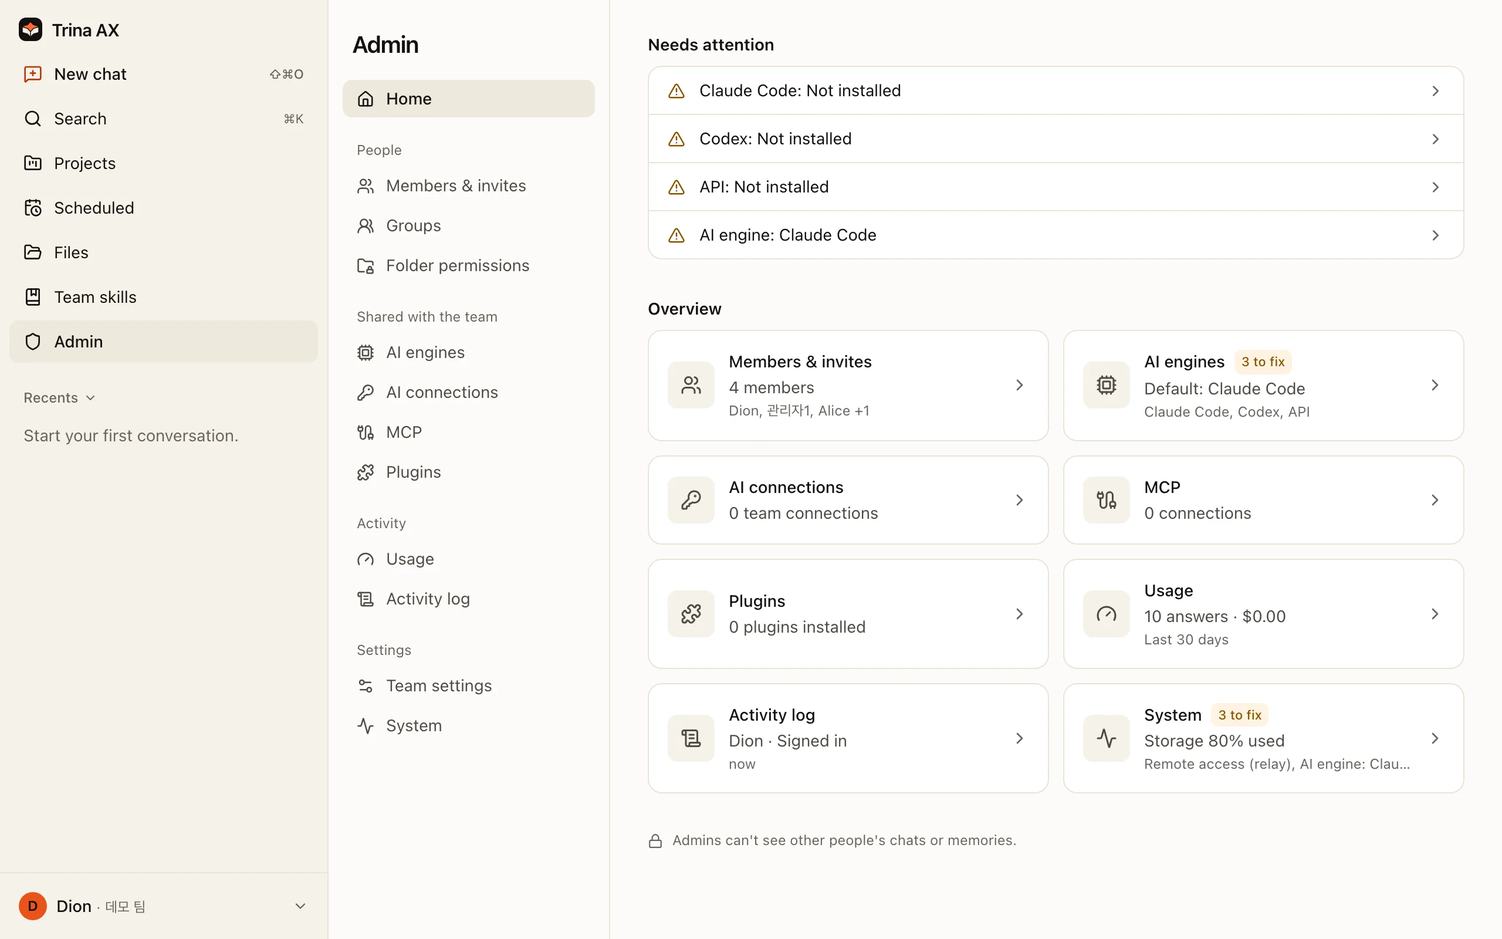
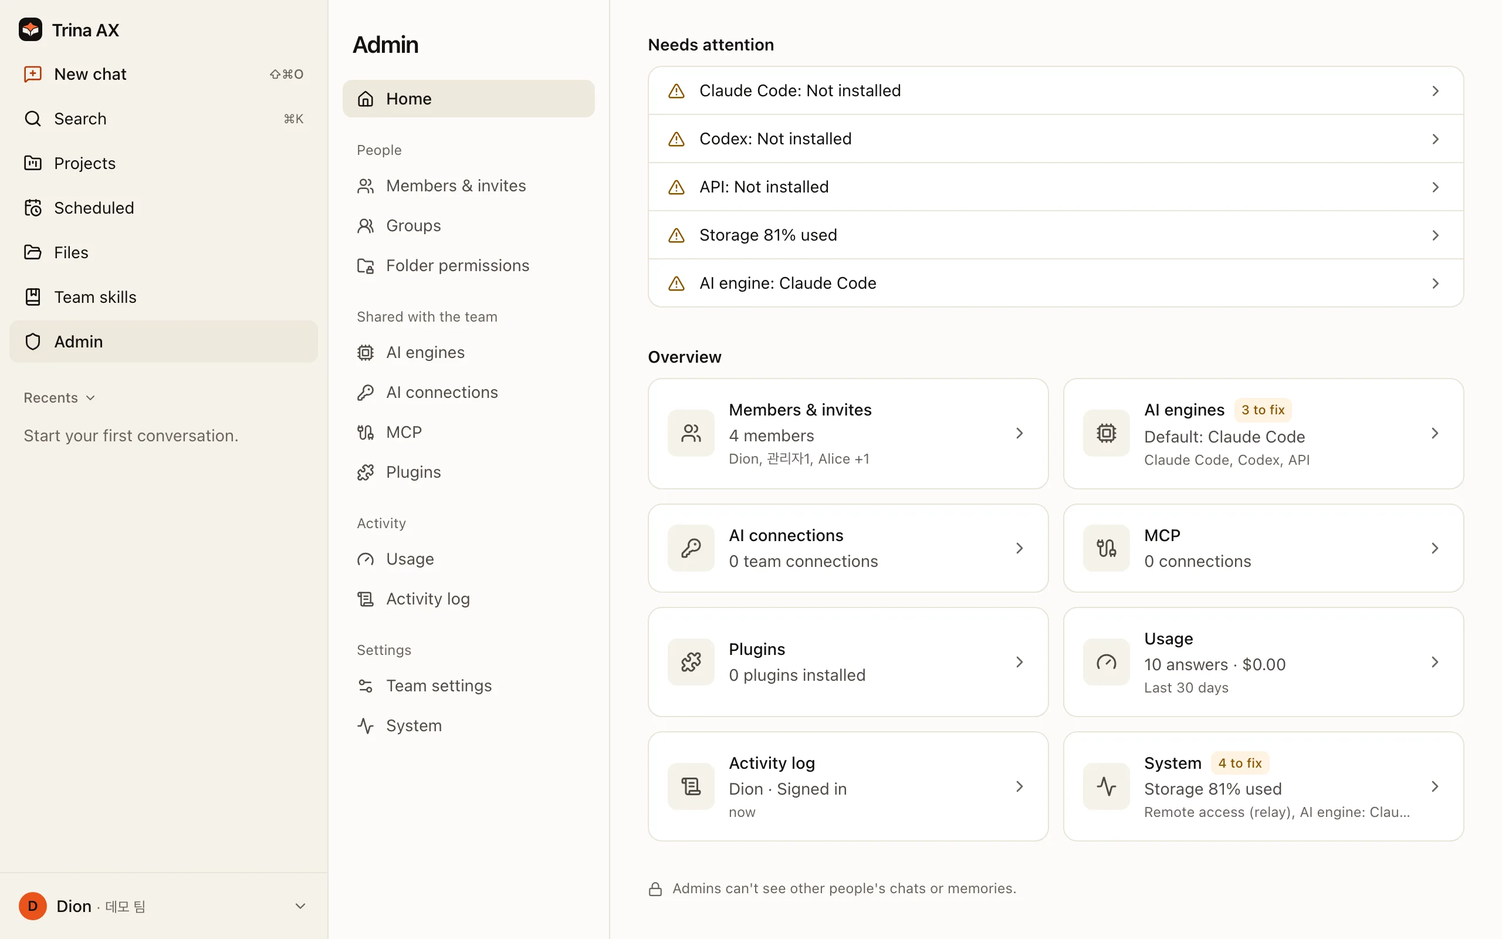
Docs: AI engines tabs with new screenshots, and the website's navbar on ax.trina.app/docs
* Docs: the AI engines tabs (Providers, Team provider settings) with new screenshots

The docs site now shows Admin › AI engines as it is on main: the Providers list, an engine opened, and Team
provider settings, with screenshots retaken from a server running main (made-up demo team). Admin Home and the
activity log shots are retaken too. The notes about older screens now name the version (before 0.4.0) instead of
"older versions", and usage limits point to AI engines › Team provider settings.

* Docs build: --site-nav puts a website's own navbar on top of the docs pages

ax.trina.app/docs should show the website's navbar, not a separate docs header. The website now hands its rendered
header and navbar CSS to the docs build as SiteNav JSON (--site-nav): the docs search goes where the bar marks it,
the section tabs stay below, phones get a docs row with the docs menu and the search, and the light or dark choice
uses the website's storage key. Without the option, the docs keep their own header (the default and the preview).
The bar is checked: no second <header>, no scripts, event handlers or inline styles.

* Docs build: no extra line between the website navbar and the section tabs

---------

diff --git a/scripts/docs/build.ts b/scripts/docs/build.ts
@@ -1,5 +1,9 @@
 // Builds the documentation site in docs/site/ into a static folder (default dist/docs-site/). `bun run docs:build`.
-//   bun scripts/docs/build.ts [--out DIR] [--base /docs] [--site-url https://docs.example.com]
+//   bun scripts/docs/build.ts [--out DIR] [--base /docs] [--site-url https://docs.example.com] [--site-nav nav.json]
+// --site-nav puts a website's own navigation bar on top of every page instead of the docs' header bar (ax.trina.app
+// passes its header, rendered by its own build). The file is SiteNav JSON: `html` is the bar's markup with the
+// `<!--docs-tools-->` marker where the docs search goes, `css` and `assets` are files next to the JSON that are copied
+// to assets/site-nav/, and `themeKey` is the localStorage key the website keeps the light or dark choice under.
 // The public copy is ax.trina.app/docs: --base /docs --site-url https://ax.trina.app (the website repository's
 // scripts/sync-docs.mjs runs that). Pages carry no inline script or style attribute, so they work under that site's
 // Content-Security-Policy (script-src 'self'; style-src 'self'; img-src 'self').
@@ -33,14 +37,15 @@ const strip = (html: string) => unesc(html.replace(/<[^>]+>/g, ' ')).replace(/\s
 
 // ---------------- options ----------------
 function options(argv: string[]) {
-  const o = { out: path.join(ROOT, 'dist/docs-site'), base: '', siteUrl: '' }
+  const o = { out: path.join(ROOT, 'dist/docs-site'), base: '', siteUrl: '', siteNav: '' }
   for (let i = 0; i < argv.length; i += 2) {
     const [k, v] = [argv[i], argv[i + 1]]
     if (v === undefined) throw new Error(`${k} needs a value`)
     if (k === '--out') o.out = path.resolve(v)
     else if (k === '--base') o.base = v.replace(/\/+$/, '')
     else if (k === '--site-url') o.siteUrl = v.replace(/\/+$/, '')
-    else throw new Error('Usage: bun scripts/docs/build.ts [--out DIR] [--base /path] [--site-url https://host]')
+    else if (k === '--site-nav') o.siteNav = path.resolve(v)
+    else throw new Error('Usage: bun scripts/docs/build.ts [--out DIR] [--base /path] [--site-url https://host] [--site-nav nav.json]')
   }
   return o
 }
@@ -72,7 +77,23 @@ function icon(name: string): string {
 }
 
 // ---------------- links ----------------
-interface Ctx { nav: Nav; pages: Page[]; base: string; siteUrl: string }
+/** A website's navigation bar to show instead of the docs' own (see --site-nav). */
+export interface SiteNav { html: string; css?: string[]; assets?: string[]; themeKey?: string }
+export const DOCS_TOOLS_MARKER = '<!--docs-tools-->'
+interface Ctx { nav: Nav; pages: Page[]; base: string; siteUrl: string; siteNav: SiteNav | null }
+
+function readSiteNav(file: string): SiteNav | null {
+  if (!file) return null
+  const n = JSON.parse(fs.readFileSync(file, 'utf8')) as SiteNav
+  if (typeof n.html !== 'string' || !n.html.includes(DOCS_TOOLS_MARKER)) throw new Error(`${file}: html needs the ${DOCS_TOOLS_MARKER} marker`)
+  // the docs page is the page's only <header>; the website's bar sits inside it
+  if (/<\/?header[\s>]/i.test(n.html)) throw new Error(`${file}: html must not contain a <header> element`)
+  if (/<script[\s>]|\son[a-z]+=|\sstyle=/i.test(n.html)) throw new Error(`${file}: html must not carry scripts, event handlers or inline styles`)
+  for (const f of [...(n.css ?? []), ...(n.assets ?? [])]) {
+    if (!/^[\w.-]+$/.test(f)) throw new Error(`${file}: ${f} must be a plain file name next to the JSON`)
+  }
+  return n
+}
 const pageUrl = (ctx: Ctx, slug: string) => (slug === 'index' ? `${ctx.base}/` : `${ctx.base}/${slug}/`)
 const pageMdUrl = (ctx: Ctx, slug: string) => `${ctx.base}/${slug}.md`
 
@@ -223,6 +244,7 @@ function postProcess(ctx: Ctx, page: Page, html: string): { html: string; toc: T
   return { html, toc }
 }
 
+const themeKey = (ctx: Ctx) => ctx.siteNav?.themeKey || 'trina-docs-theme'
 const firstSlug = (t: NavTab) => t.groups[0]!.pages[0]!
 const pageCount = (t: NavTab) => t.groups.reduce((n, g) => n + g.pages.length, 0)
 
@@ -234,16 +256,22 @@ function header(ctx: Ctx, page: Page | null): string {
       : ''
     return `<div class="section-tab${active ? ' active' : ''}"><a href="${pageUrl(ctx, firstSlug(t))}"${active ? ' aria-current="true"' : ''}>${esc(t.title)}</a>${menu}</div>`
   }).join('')
+  if (ctx.siteNav) {
+    // the website's own bar, with the docs search in it; on phones a second row holds the docs menu and the search
+    return `<header class="site-header with-site-nav">
+  <div class="sitenav">${ctx.siteNav.html.replace(DOCS_TOOLS_MARKER, `<div class="docs-tools" data-slot="bar">${searchBox()}</div>`)}</div>
+  <div class="docs-row">
+    <button class="menu-button docs-menu" type="button" aria-label="Open the docs navigation" aria-controls="sidebar" aria-expanded="false">${icon('panel-left')}<span>Docs</span></button>
+    <div class="docs-tools" data-slot="row"></div>
+  </div>
+  <nav class="section-tabs" aria-label="Sections">${tabs}</nav>
+</header>`
+  }
   return `<header class="site-header">
   <div class="bar">
     <button class="menu-button icon-button" type="button" aria-label="Open navigation" aria-controls="sidebar" aria-expanded="false">${icon('menu')}</button>
     <a class="brand" href="${pageUrl(ctx, 'index')}"><img src="${ctx.base}/assets/favicon.svg" alt="" width="24" height="24"><span>${esc(ctx.nav.title)}</span></a>
-    <div class="search" role="search">
-      ${icon('search')}
-      <input id="search-input" type="search" placeholder="Search…" aria-label="Search the docs" autocomplete="off" aria-controls="search-results" aria-expanded="false">
-      <kbd>⌘K</kbd>
-      <ul id="search-results" class="search-results" role="listbox" hidden></ul>
-    </div>
+    ${searchBox()}
     <nav class="bar-links" aria-label="Links">
       <a class="quiet-link" href="${ctx.nav.repo}" rel="noopener">GitHub</a>
       <a class="open-product" href="${esc(ctx.nav.product.url)}" rel="noopener">${esc(ctx.nav.product.label)}${icon('chevron-right')}</a>
@@ -252,6 +280,15 @@ function header(ctx: Ctx, page: Page | null): string {
   </div>
   <nav class="section-tabs" aria-label="Sections">${tabs}</nav>
 </header>`
+}
+
+function searchBox(): string {
+  return `<div class="search" role="search">
+      ${icon('search')}
+      <input id="search-input" type="search" placeholder="Search…" aria-label="Search the docs" autocomplete="off" aria-controls="search-results" aria-expanded="false">
+      <kbd>⌘K</kbd>
+      <ul id="search-results" class="search-results" role="listbox" hidden></ul>
+    </div>`
 }
 
 function sidebar(ctx: Ctx, page: Page | null): string {
@@ -282,7 +319,7 @@ function layout(ctx: Ctx, page: Page | null, content: string, toc: Toc, meta: { 
   const canonical = ctx.siteUrl && page ? `<link rel="canonical" href="${ctx.siteUrl}${pageUrl(ctx, page.slug)}">\n` : ''
   const alt = page ? `<link rel="alternate" type="text/markdown" href="${pageMdUrl(ctx, page.slug)}">\n` : ''
   return `<!doctype html>
-<html lang="en">
+<html lang="en"${ctx.siteNav ? ' class="has-site-nav"' : ''}>
 <head>
 <meta charset="utf-8">
 <meta name="viewport" content="width=device-width, initial-scale=1">
@@ -290,9 +327,9 @@ function layout(ctx: Ctx, page: Page | null, content: string, toc: Toc, meta: { 
 <meta name="description" content="${esc(meta.description)}">
 ${canonical}${alt}<link rel="icon" href="${ctx.base}/assets/favicon.svg">
 <link rel="stylesheet" href="${ctx.base}/assets/site.css">
-<script src="${ctx.base}/assets/theme.js"></script>
+${(ctx.siteNav?.css ?? []).map((f) => `<link rel="stylesheet" href="${ctx.base}/assets/site-nav/${f}">\n`).join('')}<script src="${ctx.base}/assets/theme.js" data-key="${esc(themeKey(ctx))}"></script>
 </head>
-<body data-base="${esc(ctx.base)}">
+<body data-base="${esc(ctx.base)}" data-theme-key="${esc(themeKey(ctx))}">
 <a class="skip" href="#content">Skip to content</a>
 ${header(ctx, page)}
 <div class="shell">
@@ -321,7 +358,7 @@ export function build(argv: string[]) {
   const nav = readNav()
   const pages = loadPages(nav)
   for (const p of pages) if (!p.title || !p.description) throw new Error(`${p.file}: front matter needs title and description`)
-  const ctx: Ctx = { nav, pages, base: o.base, siteUrl: o.siteUrl }
+  const ctx: Ctx = { nav, pages, base: o.base, siteUrl: o.siteUrl, siteNav: readSiteNav(o.siteNav) }
   fs.rmSync(o.out, { recursive: true, force: true })
   fs.mkdirSync(path.join(o.out, 'assets'), { recursive: true })
 
@@ -356,6 +393,10 @@ export function build(argv: string[]) {
   const assets = path.join(import.meta.dir, 'assets')
   for (const f of fs.readdirSync(assets)) fs.copyFileSync(path.join(assets, f), path.join(o.out, 'assets', f))
   fs.copyFileSync(path.join(ROOT, 'web/public/favicon.svg'), path.join(o.out, 'assets/favicon.svg'))
+  if (ctx.siteNav) {
+    fs.mkdirSync(path.join(o.out, 'assets/site-nav'), { recursive: true })
+    for (const f of [...(ctx.siteNav.css ?? []), ...(ctx.siteNav.assets ?? [])]) fs.copyFileSync(path.join(path.dirname(o.siteNav), f), path.join(o.out, 'assets/site-nav', f))
+  }
   const images = path.join(ROOT, 'docs/site/images')
   if (fs.existsSync(images)) fs.cpSync(images, path.join(o.out, 'images'), { recursive: true })
   fs.writeFileSync(path.join(o.out, '404.html'), layout(ctx, null, `<p><a href="${pageUrl(ctx, 'index')}">Go to the intro</a>, or search above.</p>`, [],

diff --git a/tests/unit/docs-site.test.ts b/tests/unit/docs-site.test.ts
@@ -111,4 +111,56 @@ describe('docs site', () => {
       fs.rmSync(out, { recursive: true, force: true })
     }
   })
+
+  // --site-nav: the website's own bar on top of every page (ax.trina.app passes its rendered header)
+  test.skipIf(!hasMarkdown)('--site-nav puts the website bar on every page, with the docs search in it and its theme key', async () => {
+    const { build } = await import('../../scripts/docs/build')
+    const out = fs.mkdtempSync(path.join(os.tmpdir(), 'docs-site-'))
+    const kit = fs.mkdtempSync(path.join(os.tmpdir(), 'docs-sitenav-'))
+    try {
+      const bar = '<div class="nav"><a class="logo" href="/">Site</a><nav class="nav-links"><a href="/docs/" aria-current="page">Docs</a></nav><div class="nav-right"><!--docs-tools--><a href="/signin">Sign in</a></div></div>'
+      fs.writeFileSync(path.join(kit, 'nav.json'), JSON.stringify({ html: bar, css: ['site-nav.css'], assets: ['font.woff2'], themeKey: 'theme' }))
+      fs.writeFileSync(path.join(kit, 'site-nav.css'), '.sitenav .nav { display: flex; }')
+      fs.writeFileSync(path.join(kit, 'font.woff2'), 'x')
+      build(['--out', out, '--base', '/docs', '--site-url', 'https://ax.trina.app', '--site-nav', path.join(kit, 'nav.json')])
+      for (const p of loadPages()) {
+        const html = fs.readFileSync(path.join(out, p.slug === 'index' ? '' : p.slug, 'index.html'), 'utf8')
+        expect(html, p.slug).toContain('<html lang="en" class="has-site-nav">')
+        expect(html).toContain('<div class="sitenav"><div class="nav"><a class="logo" href="/">Site</a>')
+        // the marker became the docs search; the docs' own bar is gone, the section tabs stay
+        expect(html).not.toContain('<!--docs-tools-->')
+        expect(html).toContain('<div class="docs-tools" data-slot="bar"><div class="search" role="search">')
+        expect(html).not.toContain('<div class="bar">')
+        expect(html).toContain('<nav class="section-tabs" aria-label="Sections">')
+        expect(html).toContain('<link rel="stylesheet" href="/docs/assets/site-nav/site-nav.css">')
+        expect(html).toContain('<script src="/docs/assets/theme.js" data-key="theme"></script>')
+        expect(html).toContain('data-theme-key="theme"')
+        expect((html.match(/<header[\s>]/g) ?? []).length).toBe(1)
+      }
+      expect(fs.readFileSync(path.join(out, 'assets/site-nav/font.woff2'), 'utf8')).toBe('x')
+      // a bar that would add a second <header> or inline code is refused
+      fs.writeFileSync(path.join(kit, 'bad.json'), JSON.stringify({ html: '<header><!--docs-tools--></header>' }))
+      expect(() => build(['--out', out, '--site-nav', path.join(kit, 'bad.json')])).toThrow(/<header>/)
+      fs.writeFileSync(path.join(kit, 'bad.json'), JSON.stringify({ html: '<div onclick="x()"><!--docs-tools--></div>' }))
+      expect(() => build(['--out', out, '--site-nav', path.join(kit, 'bad.json')])).toThrow(/inline/)
+    } finally {
+      fs.rmSync(out, { recursive: true, force: true })
+      fs.rmSync(kit, { recursive: true, force: true })
+    }
+  })
+
+  test.skipIf(!hasMarkdown)('without --site-nav the docs keep their own header and theme key', async () => {
+    const { build } = await import('../../scripts/docs/build')
+    const out = fs.mkdtempSync(path.join(os.tmpdir(), 'docs-site-'))
+    try {
+      build(['--out', out])
+      const html = fs.readFileSync(path.join(out, 'index.html'), 'utf8')
+      expect(html).toContain('<html lang="en">')
+      expect(html).toContain('<div class="bar">')
+      expect(html).toContain('data-key="trina-docs-theme"')
+      expect(fs.existsSync(path.join(out, 'assets/site-nav'))).toBe(false)
+    } finally {
+      fs.rmSync(out, { recursive: true, force: true })
+    }
+  })
 })

diff --git a/scripts/docs/assets/site.css b/scripts/docs/assets/site.css
@@ -214,6 +214,18 @@ body.toc-collapsed .shell { grid-template-columns: 280px minmax(0, 1fr) 40px; }
 body.toc-collapsed .toc ul, body.toc-collapsed .toc-head span, body.toc-collapsed .toc-head > svg:first-child { display: none; }
 body.toc-collapsed .toc-toggle { margin-left: 0; }
 
+/* ---------- a website's own bar on top (--site-nav, ax.trina.app/docs) ---------- */
+/* The bar's look comes from the website's CSS in assets/site-nav/ (scoped to .sitenav); here only how it sits in the
+   docs header: not sticky on its own (the whole header is), the docs search in it, and a docs row for phones. */
+:root.has-site-nav { --bar: 65px; }
+.has-site-nav .site-header { border-bottom: 1px solid var(--line); }
+.has-site-nav .sitenav .nav { position: relative; top: auto; z-index: auto; }
+.has-site-nav .sitenav .nav-links a[aria-current="page"] { color: var(--fg); }
+.sitenav .docs-tools { display: flex; align-items: center; margin-right: 4px; }
+.sitenav .docs-tools .search { width: 230px; height: 36px; margin: 0; }
+.docs-row { display: none; }
+@media (max-width: 1280px) { .sitenav .docs-tools .search { width: 190px; } }
+
 /* ---------- smaller screens ---------- */
 @media (max-width: 1280px) {
   .shell { grid-template-columns: 250px minmax(0, 1fr); gap: 0 40px; }
@@ -244,6 +256,17 @@ body.toc-collapsed .toc-toggle { margin-left: 0; }
   .copy-menu { left: 0; right: auto; }
   .cards.cols-3, .cards.cols-2 { grid-template-columns: minmax(0, 1fr); }
   .prose .anchor { display: none; }
+}
+@media (max-width: 900px) {
+  :root.has-site-nav { --bar: 65px; --tabs: 49px; }
+  .has-site-nav .section-tabs { display: none; }
+  .docs-row { display: flex; align-items: center; gap: 8px; height: var(--tabs); padding: 0 12px; border-top: 1px solid var(--line); }
+  .docs-row .docs-tools { flex: 1 1 0; min-width: 0; display: flex; }
+  .docs-row .search { width: auto; flex: 1 1 0; height: 36px; }
+  .docs-menu { display: inline-flex; align-items: center; gap: 6px; width: auto; height: 36px; padding: 0 10px; border: 1px solid var(--line); border-radius: 9px; background: var(--surface); color: var(--ink); font: 500 14px var(--sans); cursor: pointer; }
+  .docs-menu svg { width: 16px; height: 16px; }
+  .has-site-nav .sidebar { top: var(--header); height: calc(100dvh - var(--header)); }
+  .has-site-nav .scrim { inset: var(--header) 0 0 0; }
 }
 @media (max-width: 420px) { .brand span { font-size: 19px; } .pager { grid-template-columns: 1fr; } .pager-next { text-align: left; } }
 @media (prefers-reduced-motion: reduce) { * { transition: none !important; } }

diff --git a/scripts/docs/assets/site.js b/scripts/docs/assets/site.js
@@ -8,12 +8,30 @@
   function read(k) { try { return localStorage.getItem(k) } catch (e) { return null } }
 
   // theme
-  var themeButton = $('.theme-button')
-  if (themeButton) themeButton.addEventListener('click', function () {
-    var dark = root.dataset.theme ? root.dataset.theme === 'dark' : matchMedia('(prefers-color-scheme: dark)').matches
-    root.dataset.theme = dark ? 'light' : 'dark'
-    store('trina-docs-theme', root.dataset.theme)
+  var themeKey = document.body.dataset.themeKey || 'trina-docs-theme'
+  $$('.theme-button, [data-theme-toggle]').forEach(function (b) {
+    b.addEventListener('click', function () {
+      var dark = root.dataset.theme ? root.dataset.theme === 'dark' : matchMedia('(prefers-color-scheme: dark)').matches
+      root.dataset.theme = dark ? 'light' : 'dark'
+      store(themeKey, root.dataset.theme)
+    })
   })
+
+  // a website's own bar (--site-nav): its phone menu, and the docs search in the bar or, on phones, in the docs row
+  var siteMenuBtn = $('.sitenav [data-menu-toggle]'), siteMenu = $('.sitenav #mobile-menu')
+  if (siteMenuBtn && siteMenu) {
+    var setSiteMenu = function (open) { siteMenu.dataset.open = String(open); siteMenuBtn.setAttribute('aria-expanded', String(open)) }
+    siteMenuBtn.addEventListener('click', function () { setSiteMenu(siteMenu.dataset.open !== 'true') })
+    siteMenu.addEventListener('click', function (e) { if (e.target.closest('a')) setSiteMenu(false) })
+    document.addEventListener('keydown', function (e) { if (e.key === 'Escape' && siteMenu.dataset.open === 'true') { setSiteMenu(false); siteMenuBtn.focus() } })
+  }
+  var barSlot = $('.docs-tools[data-slot="bar"]'), rowSlot = $('.docs-tools[data-slot="row"]'), searchBox = $('.site-header .search')
+  if (barSlot && rowSlot && searchBox) {
+    var phone = matchMedia('(max-width: 900px)')
+    var placeSearch = function () { (phone.matches ? rowSlot : barSlot).appendChild(searchBox) }
+    placeSearch()
+    if (phone.addEventListener) phone.addEventListener('change', placeSearch)
+  }
 
   // menus (section tab menus and the copy menu): one open at a time, closed by Escape or a click elsewhere
   var openMenu = null

diff --git a/scripts/docs/screenshots.ts b/scripts/docs/screenshots.ts
@@ -65,6 +65,8 @@ const SHOTS: Shot[] = [
   { file: 'usage/team', path: '/admin/usage', crop: 'main' },
   { file: 'admin/home', path: '/admin' },
   { file: 'admin/engines', path: '/admin/engines', crop: 'main' },
+  { file: 'admin/engines-open', path: '/admin/engines', prepare: click('[data-testid="engine-open"]'), crop: '[data-testid="engine-card"]', pad: 16 },
+  { file: 'admin/engines-team', path: '/admin/engines?tab=team', crop: 'main' },
   { file: 'admin/activity-log', path: '/admin/audit', crop: 'main' },
   { file: 'settings/account-menu', path: '/', prepare: click('[data-testid="account-menu"]'), crop: '[data-testid="account-dropdown"]', pad: 24 },
   { file: 'settings/settings', path: '/settings/profile', crop: '[data-testid="settings-dialog"]' },

diff --git a/scripts/docs/assets/theme.js b/scripts/docs/assets/theme.js
@@ -1,6 +1,8 @@
 // Applies the saved light or dark theme before the page paints. A file of its own, loaded in <head> without defer,
 // so pages carry no inline script and work under a Content-Security-Policy of script-src 'self' (ax.trina.app/docs).
 try {
-  var t = localStorage.getItem('trina-docs-theme')
-  if (t) document.documentElement.dataset.theme = t
+  // the key: the docs' own, or the website's when the docs sit inside it (data-key on this script tag)
+  var k = (document.currentScript && document.currentScript.getAttribute('data-key')) || 'trina-docs-theme'
+  var t = localStorage.getItem(k)
+  if (t === 'light' || t === 'dark') document.documentElement.dataset.theme = t
 } catch (e) { /* storage blocked: the system theme applies */ }

diff --git a/docs/site/use/admin.md b/docs/site/use/admin.md
@@ -23,9 +23,9 @@ description: What owners and admins manage, and where each setting lives.
 Assign folders to groups and check access with two test accounts. [Read about permissions](files-and-permissions.md).
 
 #### Connect the AI
-The owner connects an authorized Claude or OpenAI account in **AI connections**. **AI engines** shows whether each engine is ready.
+The owner connects an authorized Claude or OpenAI account in **AI connections**. **AI engines › Providers** shows whether each engine is ready.
 
-![Admin › AI engines: Claude Code, Codex and the API engine, each with its state, models and an on/off switch](../images/admin/engines.webp "AI engines")
+![Admin › AI engines › Providers: Claude Code, Codex and the API engine, each with its state, models, check again and an on/off switch](../images/admin/engines.webp "AI engines › Providers")
 
 #### Invite the team
 Start with a small pilot group, then confirm roles and folder access.
@@ -45,6 +45,27 @@ Back up, then practise a restore with IT. [Read about backups](../operate/backup
 
 :::warning
 People who operate the server, its OS or its storage can read stored files and chats. In hosted plans, that includes Trina's operators.
+:::
+
+## AI engines
+
+**Admin › AI engines** has two tabs.
+
+| Tab | What it holds |
+|---|---|
+| **Providers** | One row per engine (Claude Code, Codex, API): its state, sign-in mode, models and last check, with **↻** to check again and an on/off switch. |
+| **Team provider settings** | The default engine and model, answers at the same time, who may pick the engine, switching to Codex at Claude's limit, and usage limits. |
+
+Click an engine's name to open its details: what is missing and how to fix it, every model, and for the owner the API engine form.
+
+![An engine row opened: the reason it is not ready, its sign-in mode, models and last check](../images/admin/engines-open.webp "An engine opened")
+
+![Admin › AI engines › Team provider settings: team defaults, who picks the engine, the switch to Codex, and usage limits](../images/admin/engines-team.webp "Team provider settings")
+
+Save and Cancel appear in a section only after you change something in it.
+
+:::note
+The two tabs are new in 0.4.0. In 0.3.0 and earlier, everything is on one **AI engines** page.
 :::
 
 ## Activity log

diff --git a/docs/site/use/usage-and-limits.md b/docs/site/use/usage-and-limits.md
@@ -16,7 +16,7 @@ Open **Usage** from your account menu. It shows your answers, tokens and estimat
 ![Settings › Usage: Your usage, your answers by model for this month, and answers, tokens and estimated cost](../images/usage/mine.webp "Your own usage, in Settings")
 
 :::note
-Personal usage is new. In older versions, only admins see usage, in **Admin › Usage**.
+Personal usage is new in 0.4.0. Before that, only admins see usage, in **Admin › Usage**.
 :::
 
 ## The team's usage
@@ -33,7 +33,7 @@ Personal skills are never counted by name, so no admin sees what someone keeps p
 
 ## Set limits
 
-There are no limits by default. Admins add them in **Admin › AI engines**, under usage limits.
+There are no limits by default. Admins add them in **Admin › AI engines › Team provider settings**, under **Usage limits**.
 
 | Limit for | Period |
 |---|---|

diff --git a/docs/site/use/scheduled-tasks.md b/docs/site/use/scheduled-tasks.md
@@ -6,7 +6,7 @@ description: Ask once and let the AI repeat the work on a schedule, in the team'
 A scheduled task runs a request again and again: every weekday morning, every Monday, the first of the month. It runs as the person who made it.
 
 :::note
-In current versions, scheduled tasks have their own **Scheduled** item in the sidebar. Older versions keep them under **Settings › Schedules**.
+From 0.4.0, scheduled tasks have their own **Scheduled** item in the sidebar. Before that, they are under **Settings › Schedules**.
 :::
 
 ![The Scheduled tasks page: two task cards with their folders and times, and a New task button](../images/scheduled/list.webp "Scheduled tasks, with Scheduled in the sidebar")

diff --git a/docs/site/use/mcp.md b/docs/site/use/mcp.md
@@ -6,7 +6,7 @@ description: Let the AI use outside services such as Notion and Linear, with a p
 An MCP connection lets the AI use a service outside the team server. The AI uses the service's tools with the credentials of the connection.
 
 :::note
-Older versions call this screen **External services**.
+Before 0.4.0, this screen is called **External services**.
 :::
 
 ## Two kinds of connection
